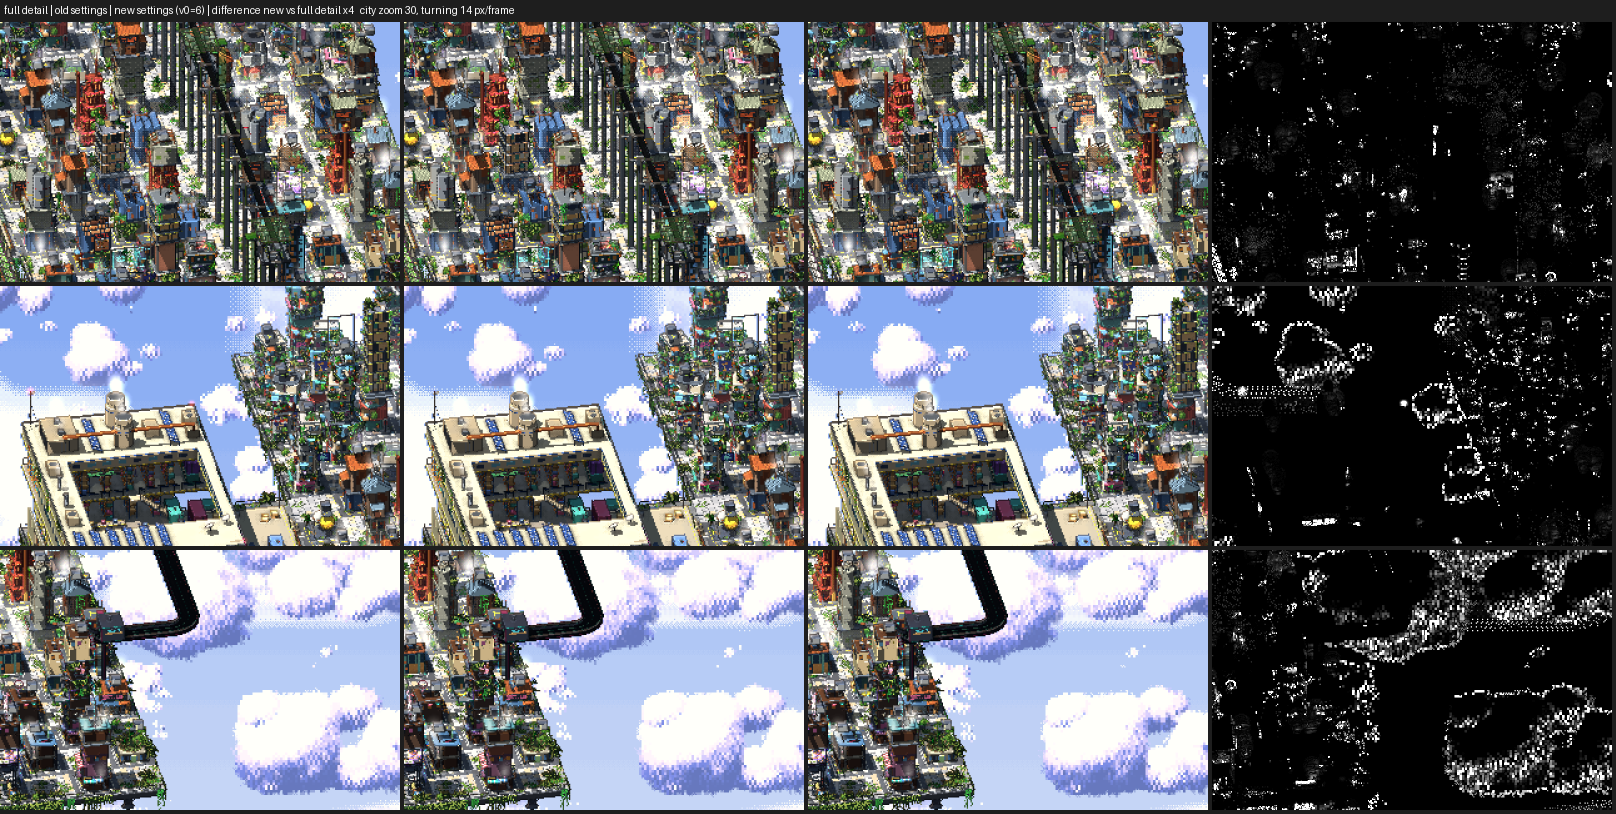
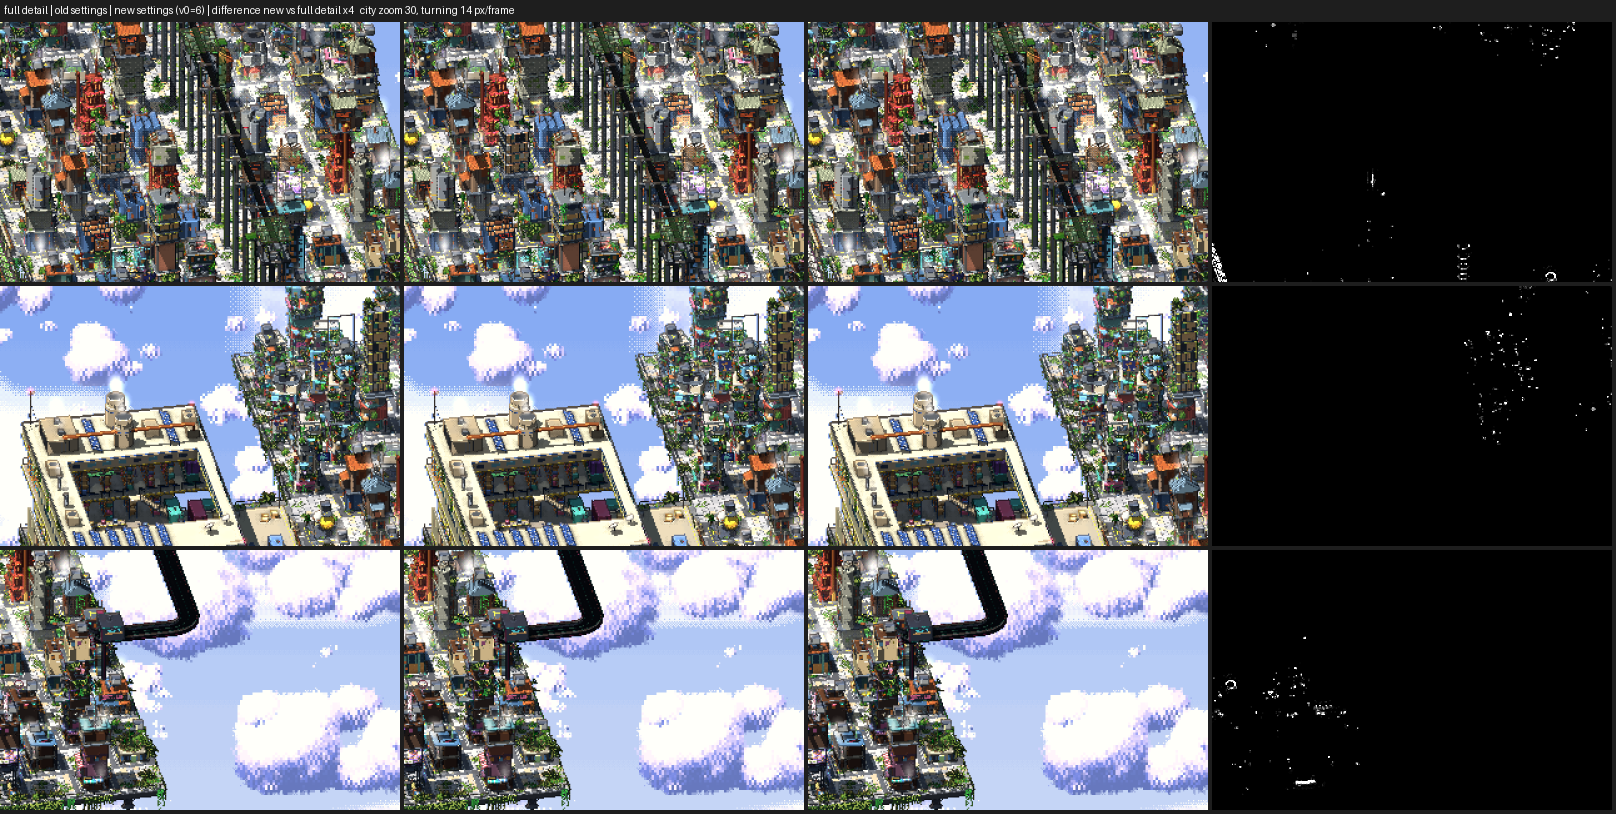
Round 7 item 5: glow overlays of merged regions drawn in batches of 16 regions (draw calls -208 at zoom 30, harness 106 captures 0 problems); doors pass test; crops rendered in fresh pages
Claude-Session: https://claude.ai/code/session_014FicyaXC5so6tAi2SHBnGK

diff --git a/js/world.js b/js/world.js
@@ -299,13 +299,25 @@ function glowOverlay(mesh){
   const cur = off.slice(0, 256), sorted = new Array(win.length);   // (windows by threshold, so the band of them to draw is one run)
   for (let q = 0; q < win.length; q += 3){ const p = cur[ON[win[q]]]++*3; sorted[p] = win[q]; sorted[p + 1] = win[q + 1]; sorted[p + 2] = win[q + 2]; }
   const out = fb.concat(sorted);
-  const og = new THREE.BufferGeometry(); for (const k in g.attributes) og.setAttribute(k, g.attributes[k]);
-  og.setIndex(new THREE.BufferAttribute(g.attributes.position.count > 65535 ? new Uint32Array(out) : new Uint16Array(out), 1));
+  const og = new THREE.BufferGeometry(), blockKey = mesh.userData.blockKey;
+  if (blockKey !== undefined){
+    // a region's merged mesh: the overlay gets vertex data of its own (just the corners its triangles use), so that a whole region of them can be joined into one draw (ovBatch below)
+    const nv0 = g.attributes.position.count, map = new Int32Array(nv0).fill(-1), src = [], idx = new Array(out.length);
+    for (let q = 0; q < out.length; q++){ const v = out[q]; let r = map[v]; if (r < 0){ r = map[v] = src.length; src.push(v); } idx[q] = r; }
+    for (const k in g.attributes){ const a = g.attributes[k], n = a.itemSize, arr = new a.array.constructor(src.length*n);
+      for (let v = 0; v < src.length; v++) for (let c = 0; c < n; c++) arr[v*n + c] = a.array[src[v]*n + c];
+      og.setAttribute(k, new THREE.BufferAttribute(arr, n, a.normalized)); }
+    og.setIndex(new THREE.BufferAttribute(src.length > 65535 ? new Uint32Array(idx) : new Uint16Array(idx), 1));
+  } else {
+    for (const k in g.attributes) og.setAttribute(k, g.attributes[k]);
+    og.setIndex(new THREE.BufferAttribute(g.attributes.position.count > 65535 ? new Uint32Array(out) : new Uint16Array(out), 1));
+  }
   if (!g.boundingSphere) g.computeBoundingSphere(); og.boundingSphere = g.boundingSphere.clone();
   g.addEventListener('dispose', () => og.dispose());
-  const ov = new THREE.Mesh(og, ATLAS_OV); ov.layers.mask = OV_BIT; ov.receiveShadow = mesh.receiveShadow; ov.castShadow = false; ov.userData.isOv = true;
+  const ov = new THREE.Mesh(og, ATLAS_OV); ov.layers.mask = blockKey !== undefined && !ovPerBlock() ? 0 : OV_BIT; ov.receiveShadow = mesh.receiveShadow; ov.castShadow = false; ov.userData.isOv = true;
   ov.userData.ovInfo = { nFB: fb.length, off }; ov.onBeforeRender = ovBefore; ov.onAfterRender = ovAfter;
   mesh.add(ov);
+  if (blockKey !== undefined) ovRegister(blockKey, ov, mesh.receiveShadow);
 }
 // what the overlay draws this frame: the flickering and blinking triangles, and the windows in the stutter band of LIGHTS_ON
 function ovBefore(r, s, c, g){
@@ -316,6 +328,52 @@ function ovBefore(r, s, c, g){
   else { g.drawRange.start = 0; g.drawRange.count = a + b; this.userData.md = { s: new Int32Array([0, a + o0]), n: new Int32Array([a, b]) }; }
 }
 function ovAfter(r, s, c, g){ g.drawRange.start = 0; g.drawRange.count = Infinity; this.userData.md = null; }
+// The overlays of the merged regions (one each, 226 draw calls in a view at zoom 30) joined, a batch for every OVB x OVB block of regions: one mesh whose index holds each member's triangles one after another, and each frame
+// the ranges of the members in view (what each member's own overlay would draw) go up in one multi-range draw. Opaque, no depth write, depth equal or nearer: only exactly coplanar duplicates could tell the
+// order apart. The members' own overlays stay (layer 0, not drawn) for the overlay test "glow overlay: one draw per region (as before)".
+const OVB = 4, ovBlocks = new Map(), ovBatches = new Map(), ovDirty = new Set(); let ovModeNow = null;
+const ovPerBlock = () => !!(PH.tests.ovPerBlock || window.__OV_PER_BLOCK);
+const ovSuperKey = k => { const c = k.indexOf(','); return Math.floor(+k.slice(0, c)/OVB) + ',' + Math.floor(+k.slice(c + 1)/OVB); };
+function ovRegister(key, ov, rs){ let l = ovBlocks.get(key); if (!l) ovBlocks.set(key, l = []); l.push({ ov, rs }); ovDirty.add(ovSuperKey(key)); }
+function ovForget(key){ if (ovBlocks.delete(key)) ovDirty.add(ovSuperKey(key)); }
+function ovFlush(){
+  const per = ovPerBlock();
+  if (per !== ovModeNow){ ovModeNow = per; for (const l of ovBlocks.values()) for (const m of l) m.ov.layers.mask = per ? OV_BIT : 0; for (const b of ovBatches.values()) b.layers.mask = per ? 0 : OV_BIT; }
+  if (!ovDirty.size) return;
+  for (const sk of ovDirty){
+    for (const sfx of ['r', 'p']){ const old = ovBatches.get(sk + sfx); if (old){ world.remove(old); old.geometry.dispose(); ovBatches.delete(sk + sfx); } }
+    for (const rs of [true, false]){
+      const mem = []; for (const [k, l] of ovBlocks) if (ovSuperKey(k) === sk) for (const m of l) if (m.rs === rs && m.ov.parent) mem.push(m);
+      if (!mem.length) continue;
+      let nv = 0, ni = 0; for (const m of mem){ nv += m.ov.geometry.attributes.position.count; ni += m.ov.geometry.index.count; }
+      const names = Object.keys(mem[0].ov.geometry.attributes), geo = new THREE.BufferGeometry();
+      if (mem.some(m => Object.keys(m.ov.geometry.attributes).length !== names.length || names.some(n => !m.ov.geometry.attributes[n]))) continue;
+      for (const n of names){ const a0 = mem[0].ov.geometry.attributes[n], arr = new a0.array.constructor(nv*a0.itemSize); let q = 0; for (const m of mem){ const a = m.ov.geometry.attributes[n].array; arr.set(a, q); q += a.length; }
+        geo.setAttribute(n, new THREE.BufferAttribute(arr, a0.itemSize, a0.normalized)); }
+      const ix = nv > 65535 ? new Uint32Array(ni) : new Uint16Array(ni), rec = []; let k = 0, base = 0;
+      for (const m of mem){ const g = m.ov.geometry, I = g.index.array; rec.push({ at: k, info: m.ov.userData.ovInfo, c: g.boundingSphere.center, r: g.boundingSphere.radius }); for (let q = 0; q < I.length; q++) ix[k++] = I[q] + base; base += g.attributes.position.count; }
+      geo.setIndex(new THREE.BufferAttribute(ix, 1)); geo.computeBoundingSphere();
+      const b = new THREE.Mesh(geo, ATLAS_OV); b.layers.mask = per ? 0 : OV_BIT; b.receiveShadow = rs; b.castShadow = false; b.frustumCulled = false; b.matrixAutoUpdate = false; b.updateMatrix(); b.matrixWorldNeedsUpdate = true;
+      b.userData.ovb = rec; b.onBeforeRender = ovbBefore; b.onAfterRender = ovAfter; world.add(b); ovBatches.set(sk + (rs ? 'r' : 'p'), b);
+    }
+  }
+  ovDirty.clear();
+}
+let _ovS = new Int32Array(256), _ovN = new Int32Array(256);
+function ovbBefore(r, s, c, g){
+  const rec = this.userData.ovb, lv = LIGHTS_ON.value, lo = Math.max(0, Math.floor((lv - .04)*255) - 1), hi = Math.min(255, Math.ceil(lv*255) + 1), pl = CULL.pl, pad = CULL.pad, cull = c === CULL.cam;
+  let m = 0, tot = 0;
+  for (let i = 0; i < rec.length; i++){
+    const e = rec[i];
+    if (cull){ const rr = e.r + pad; let out = false; for (let q = 0; q < 24; q += 4) if (pl[q]*e.c.x + pl[q + 1]*e.c.y + pl[q + 2]*e.c.z + pl[q + 3] < -rr){ out = true; break; } if (out) continue; }
+    const u = e.info, a = u.nFB, o0 = u.off[lo]*3, b = hi >= lo ? (u.off[hi + 1] - u.off[lo])*3 : 0;
+    if (m + 2 > _ovS.length){ const s2 = new Int32Array(_ovS.length*2), n2 = new Int32Array(_ovS.length*2); s2.set(_ovS); n2.set(_ovN); _ovS = s2; _ovN = n2; }
+    if (a){ _ovS[m] = e.at; _ovN[m++] = a; tot += a; }
+    if (b){ _ovS[m] = e.at + a + o0; _ovN[m++] = b; tot += b; }
+  }
+  if (!m){ g.drawRange.start = 0; g.drawRange.count = 0; this.userData.md = null; return; }
+  g.drawRange.start = 0; g.drawRange.count = tot; this.userData.md = { s: _ovS.slice(0, m), n: _ovN.slice(0, m) };
+}
 let SIDE_SPLIT = false;   // (set while a plot or a megastructure is collected: see collect)
 const atlasable = m => m && m.isMeshToonMaterial && !m.map && m !== M.cloud && m !== ATLAS && m !== ATLAS_SIDE;
 // Faces nobody can ever see: wholly and well inside one of the piece's solid blocks (a box's end sunk into a wall, a post
@@ -1445,15 +1503,19 @@ const markSolid = c => { if (c) solidDirty.add(mergeKey(c.i, c.j)); };
 function markSolidRegion(rk){ const [a, b] = rk.split(',').map(Number);
   for (let i = Math.floor(a*REG/MREG); i <= Math.floor((a*REG + REG - 1)/MREG); i++) for (let j = Math.floor(b*REG/MREG); j <= Math.floor((b*REG + REG - 1)/MREG); j++) solidDirty.add(i + ',' + j); }
 function flushSolid(){
-  flushSuper(); if (!solidDirty.size) return;
-  if (SYNC_NOW()){ for (const k of solidDirty) rebuildSolid(k); solidDirty.clear(); return; }
-  const k = solidDirty.values().next().value; solidDirty.delete(k); rebuildSolid(k);   // (a region a frame: each merge is 20 to 50 ms; until it is done the region's plots draw one by one, the same picture)
+  flushSuper();
+  if (solidDirty.size){
+    if (SYNC_NOW()){ for (const k of solidDirty) rebuildSolid(k); solidDirty.clear(); }
+    else { const k = solidDirty.values().next().value; solidDirty.delete(k); rebuildSolid(k); }   // (a region a frame: each merge is 20 to 50 ms; until it is done the region's plots draw one by one, the same picture)
+  }
+  ovFlush();
 }
 const mergeable = o => o.isMesh && !o.isInstancedMesh && (o.layers.mask === 1 || o.layers.mask === STATIC_BIT) && !o.material.transparent && o.geometry.index && !o.userData.noMerge;
 function rebuildSolid(key){ SC_DIRTY.quiet++; try { rebuildSolid0(key); } finally { SC_DIRTY.quiet--; } }
 function rebuildSolid0(key){
   const old = solidRegions.get(key);
-  if (old){ for (const m of old.members) m.visible = !(m.userData.sideOf && m.geometry.userData.full); world.remove(old.group); disposeGroup(old.group); solidRegions.delete(key); }   // (a walls' mesh stays hidden while its piece is swept: see showHidden)
+  if (old){ for (const m of old.members) m.visible = !(m.userData.sideOf && m.geometry.userData.full); world.remove(old.group); disposeGroup(old.group); solidRegions.delete(key); }
+  ovForget(key);   // (a walls' mesh stays hidden while its piece is swept: see showHidden)
   const byMat = new Map(), members = [];
   for (const c of [...cells.values(), ...megas.values()]){
     if (!c.view || c.view.parent !== world || !c.view.visible || mergeKey(c.i, c.j) !== key || animCells.has(c)) continue;   // (only views actually on show)
@@ -1467,7 +1529,7 @@ function rebuildSolid0(key){
     const cutting = list.some(o => o.geometry.userData.cut);
     const merged = cutting ? mergeCut(list.map(o => o.geometry)) : mergeIndexed(list.map(o => o.geometry)); if (!merged) continue;
     dropCpuCopy(merged);
-    const mesh = new THREE.Mesh(merged, mat); mesh.castShadow = list[0].castShadow; mesh.receiveShadow = list[0].receiveShadow;
+    const mesh = new THREE.Mesh(merged, mat); mesh.castShadow = list[0].castShadow; mesh.receiveShadow = list[0].receiveShadow; mesh.userData.blockKey = key;   // (the glow overlay is batched by it: see ovBatch)
     mesh.userData.sortId = list[0].id;   // (drawn where its first piece would have been: see the opaque sort below)
     if (merged.userData.shown !== undefined){ mesh.onBeforeRender = hideBefore; mesh.onAfterRender = hideAfter; }
     g.add(mesh);

diff --git a/js/perfhud.js b/js/perfhud.js
@@ -13,8 +13,8 @@ const PH = (() => {
   // in one plain material (the same triangles, almost no shading), shadows: surfaces don't look up the shadow map.
   // lean: the buildings' shader without the view position it passes but never uses (same picture); no glow math: lights
   // don't switch on, flicker or blink; no color data: the buildings' colors and glow aren't read at all.
-  const tests = { quarter: false, plain: false, shadows: false, lean: false, noGlow: false, noData: false, cutoutsLast: false, compAll: false, compFloor: false, compNoShim: false, gbuf: false, noCull: false, noSmall: false, noSlowFar: false, noStatic: false, showRebuilds: false, walkAll: false, fullRate: false, noRing: false, copyByBlit: false, noSpeed: false, noRect: false, noHold: false, softFull: false, noLiveCull: false, syncLater: false, keepCpu: false, lurkScan: false, slowFree: false, steamFull: false, sdOld: false, slowSync: false, steamMapAlways: false }, plainMat = new THREE.MeshBasicMaterial({ color: 0x8a8f99 });
-  const TEST_NAMES = { quarter: 'quarter of the pixels', plain: 'plain shading', shadows: 'no surface shadows', lean: 'lean buildings (same picture)', noGlow: 'no glow math', noData: 'no color data', cutoutsLast: 'cut-outs drawn last (same picture)', compAll: 'composite: every effect compiled in (same picture)', compFloor: 'composite: no effects', compNoShim: 'composite: no air shimmer (pads, metro)', gbuf: 'buildings: colors only, no lighting', noCull: 'no per-plot culling (same picture)', noSmall: 'draw sub-pixel triangles too', noSlowFar: 'people off screen at full rate', noStatic: 'no static cache', showRebuilds: 'show cache redraws (red)', walkAll: 'walk every matrix (same picture)', fullRate: 'people at full rate', noRing: 'no ring: redraw the cache whole at the edge', copyByBlit: 'copy the cache by blitting (not drawing)', noSpeed: 'no speed-based detail', noRect: 'redraw the cache whole on edits', noHold: 'strips drawn with the current lights (not the cache\'s)', softFull: 'soft effects at full resolution', noLiveCull: 'live pass: everything in the widened view (as before)', syncLater: 'edit upkeep spread over frames (people differ)', keepCpu: 'keep the CPU copies of merged geometry', lurkScan: 'lurkers scan every walker (same picture)', slowFree: 'bike routes: a key lookup per point (same picture)', steamFull: 'steam: every puff in full (same picture)', sdOld: 'turn detail: start at 10 px a frame (as before)', slowSync: 'edit upkeep: a key string per path point (same picture)', steamMapAlways: 'steam map: rebuilt at every edit (same picture)' };
+  const tests = { quarter: false, plain: false, shadows: false, lean: false, noGlow: false, noData: false, cutoutsLast: false, compAll: false, compFloor: false, compNoShim: false, gbuf: false, noCull: false, noSmall: false, noSlowFar: false, noStatic: false, showRebuilds: false, walkAll: false, fullRate: false, noRing: false, copyByBlit: false, noSpeed: false, noRect: false, noHold: false, softFull: false, noLiveCull: false, syncLater: false, keepCpu: false, lurkScan: false, slowFree: false, steamFull: false, sdOld: false, slowSync: false, steamMapAlways: false, doorsTwo: false, ovPerBlock: false }, plainMat = new THREE.MeshBasicMaterial({ color: 0x8a8f99 });
+  const TEST_NAMES = { quarter: 'quarter of the pixels', plain: 'plain shading', shadows: 'no surface shadows', lean: 'lean buildings (same picture)', noGlow: 'no glow math', noData: 'no color data', cutoutsLast: 'cut-outs drawn last (same picture)', compAll: 'composite: every effect compiled in (same picture)', compFloor: 'composite: no effects', compNoShim: 'composite: no air shimmer (pads, metro)', gbuf: 'buildings: colors only, no lighting', noCull: 'no per-plot culling (same picture)', noSmall: 'draw sub-pixel triangles too', noSlowFar: 'people off screen at full rate', noStatic: 'no static cache', showRebuilds: 'show cache redraws (red)', walkAll: 'walk every matrix (same picture)', fullRate: 'people at full rate', noRing: 'no ring: redraw the cache whole at the edge', copyByBlit: 'copy the cache by blitting (not drawing)', noSpeed: 'no speed-based detail', noRect: 'redraw the cache whole on edits', noHold: 'strips drawn with the current lights (not the cache\'s)', softFull: 'soft effects at full resolution', noLiveCull: 'live pass: everything in the widened view (as before)', syncLater: 'edit upkeep spread over frames (people differ)', keepCpu: 'keep the CPU copies of merged geometry', lurkScan: 'lurkers scan every walker (same picture)', slowFree: 'bike routes: a key lookup per point (same picture)', steamFull: 'steam: every puff in full (same picture)', sdOld: 'turn detail: start at 10 px a frame (as before)', slowSync: 'edit upkeep: a key string per path point (same picture)', steamMapAlways: 'steam map: rebuilt at every edit (same picture)', doorsTwo: 'doors: two passes over the people (same picture)', ovPerBlock: 'glow overlay: one draw per region (same picture)' };
   const gl = renderer.getContext(), info = renderer.info;
   const ext = gl.getExtension('EXT_disjoint_timer_query_webgl2');
   const N = 180;   // frames of history

diff --git a/js/people.js b/js/people.js
@@ -602,15 +602,19 @@ function rebuildDoorMeshes(){
 }
 // doors open in about a fifth of a second when someone is about to step through, and close behind them
 function updateDoors(dt){
+  const twoPasses = PH.tests.doorsTwo || window.__DOORS_TWO;   // (the first way: a second walk over the people for the pod doors)
   for (const p of pplList){ const w = p.walk;
     if (w){ if (w.doorA && w.s < .55) w.doorA.want = true;
       if (w.doorB && w.len - w.s < .8) w.doorB.want = true; }
+    if (twoPasses) continue;
     const r = p.ride, pd = r && r.c._podDoor;   // (up on a pod, the deck door opens for whoever steps out of it to the lift, or off the lift and in through it; this only sets flags, so it can share the pass)
     if (pd && ((r.ph === 'in' && r.t < LIFT_STEP*.6) || (r.ph === 'out' && r.t > LIFT_STEP*.35))) pd.want = true; }
   for (const b of bots){ const w = b.walk;
     if (w){ if (w.doorA && w.s < .55) w.doorA.want = true; if (w.doorB && w.len - w.s < .8) w.doorB.want = true; }
     if (b.state === 'drop' && pplNow - b.t0 > 1.6 && b.door) b.door.want = true;   // someone opens up to take the parcel
     const r = b.ride, pd = r && r.c._podDoor; if (pd && r.dropT && pplNow - r.dropT > 1.2 && pplNow - r.dropT < 3.2) pd.want = true; }   // (up on a pod: its deck door)
+  if (twoPasses) for (const p of pplList){ const r = p.ride, pd = r && r.c._podDoor; if (!pd) continue;
+    if ((r.ph === 'in' && r.t < LIFT_STEP*.6) || (r.ph === 'out' && r.t > LIFT_STEP*.35)) pd.want = true; }
   let moved = false;
   for (let i = 0; i < doorList.length && i < DOOR_MAX; i++){
     const d = doorList[i], o = Math.max(0, Math.min(1, d.open + (d.want ? 1 : -1)*dt/.2));

diff --git a/tools/perf/sd_crops.py b/tools/perf/sd_crops.py
@@ -16,10 +16,12 @@ if __name__ == '__main__':
     srv = H.serve(); url = H.make_site('sdc', None); sc = H.load_scenes([a.scene])[0]
     base = {'on': True, 'v0': 10, 'step': 2, 'max': 2, 'fast': 40, 'fastMax': 1, 'cursorPx': 200, 'hys': .25}
     new = dict(base, **{k: float(v) for k, v in (x.split('=') for x in a.new.split(','))})
+    res = {}
     with sync_playwright() as pw:
-        br = H.launch(pw); ctx, pg, errs = H.open_game(br, url, sc, H.VIEWPORTS[0], 'reuse')
-        pg.evaluate('() => { zoom = zoomT = 30; S.cycle = false; S.hour = 12; ptrLast = null; }'); pg.evaluate('() => __perf.cap(60, 3)')
-        res = {n: pg.evaluate(JS, [a.rate, st, 16]) for n, st in (('full detail', {'on': False}), ('old settings', base), ('new settings', new))}
+        for n, st in (('full detail', {'on': False}), ('old settings', base), ('new settings', new)):   # (each setting in its own fresh page, the same script: the clock and the random numbers are scripted, so people, vehicles and clouds are where they were in every column)
+            br = H.launch(pw); ctx, pg, errs = H.open_game(br, url, sc, H.VIEWPORTS[0], 'reuse')
+            pg.evaluate('() => { zoom = zoomT = 30; S.cycle = false; S.hour = 12; ptrLast = null; }'); pg.evaluate('() => __perf.cap(60, 3)')
+            res[n] = pg.evaluate(JS, [a.rate, st, 16]); br.close()
     srv.shutdown()
     ims = {n: img(r['png']) for n, r in res.items()}; W, Hh = ims['full detail'].size
     for n, r in res.items(): print('%-13s triangles %9d  fastest %5.1f px/frame  %s' % (n, r['tris'], r['top'], r['line'][:90]))

diff --git a/tools/perf/OVERNIGHT2.md b/tools/perf/OVERNIGHT2.md
@@ -129,7 +129,7 @@ What I checked, exactly:
   2.4% to 17.6% fewer triangles (against 0 to 1.8% before); a fast spin 33% instead of 18%. I did not touch `max`, `fast` or `cursorPx`: a third class (v0 5, max 3) only gains 3 to 4 points more and drops detail further.
   Overlay test "turn detail: start at 10 px a frame (as before)" restores the old setting; "no speed-based detail" still turns it all off.
 - Crops (cheat, yours to approve): tools/perf/overnight2/item6_city_0p012.png: one frame of a steady 14 px a frame turn at zoom 30, three places (middle, left, right), columns: full detail, the old settings, the new settings, and the difference between new and full detail times 4.
-  Triangles in that frame: full 1,214,373, old 1,188,498, new 994,842. The difference column is speck-level building detail on moving walls; the clouds differ in every column because they animate with time. Check: harness city, dense, megas quick: 0 problems (the standard script doesn't turn at those speeds).
+  Triangles in that frame: full 1,214,373, old 1,188,498, new 994,842. Each column is rendered in its own fresh page with the same script (the clock and random numbers are scripted), so people, vehicles and clouds are the same in all four and the difference column (new against full detail, times 4) is only the detail the setting leaves out: sparse specks on walls and roofs. Check: harness city, dense, megas quick: 0 problems (the standard script doesn't turn at those speeds).
 
 **2d. Round parts and rounded boxes by zoom band: not built (cheat; needs your approval first and a layout change).** The candidates and their share are in 2c (pipeSeg and the other 16-sided cylinders about 11% of triangles put, the rounded plates and boxes about 12%).
 A lean variant means a second set of triangles for each round part in the same buffer and a way to choose between the sets per zoom band; the index layout has only one dimension for choosing (the size classes, by edge length) and the lean set needs its own: another set of rows per piece
